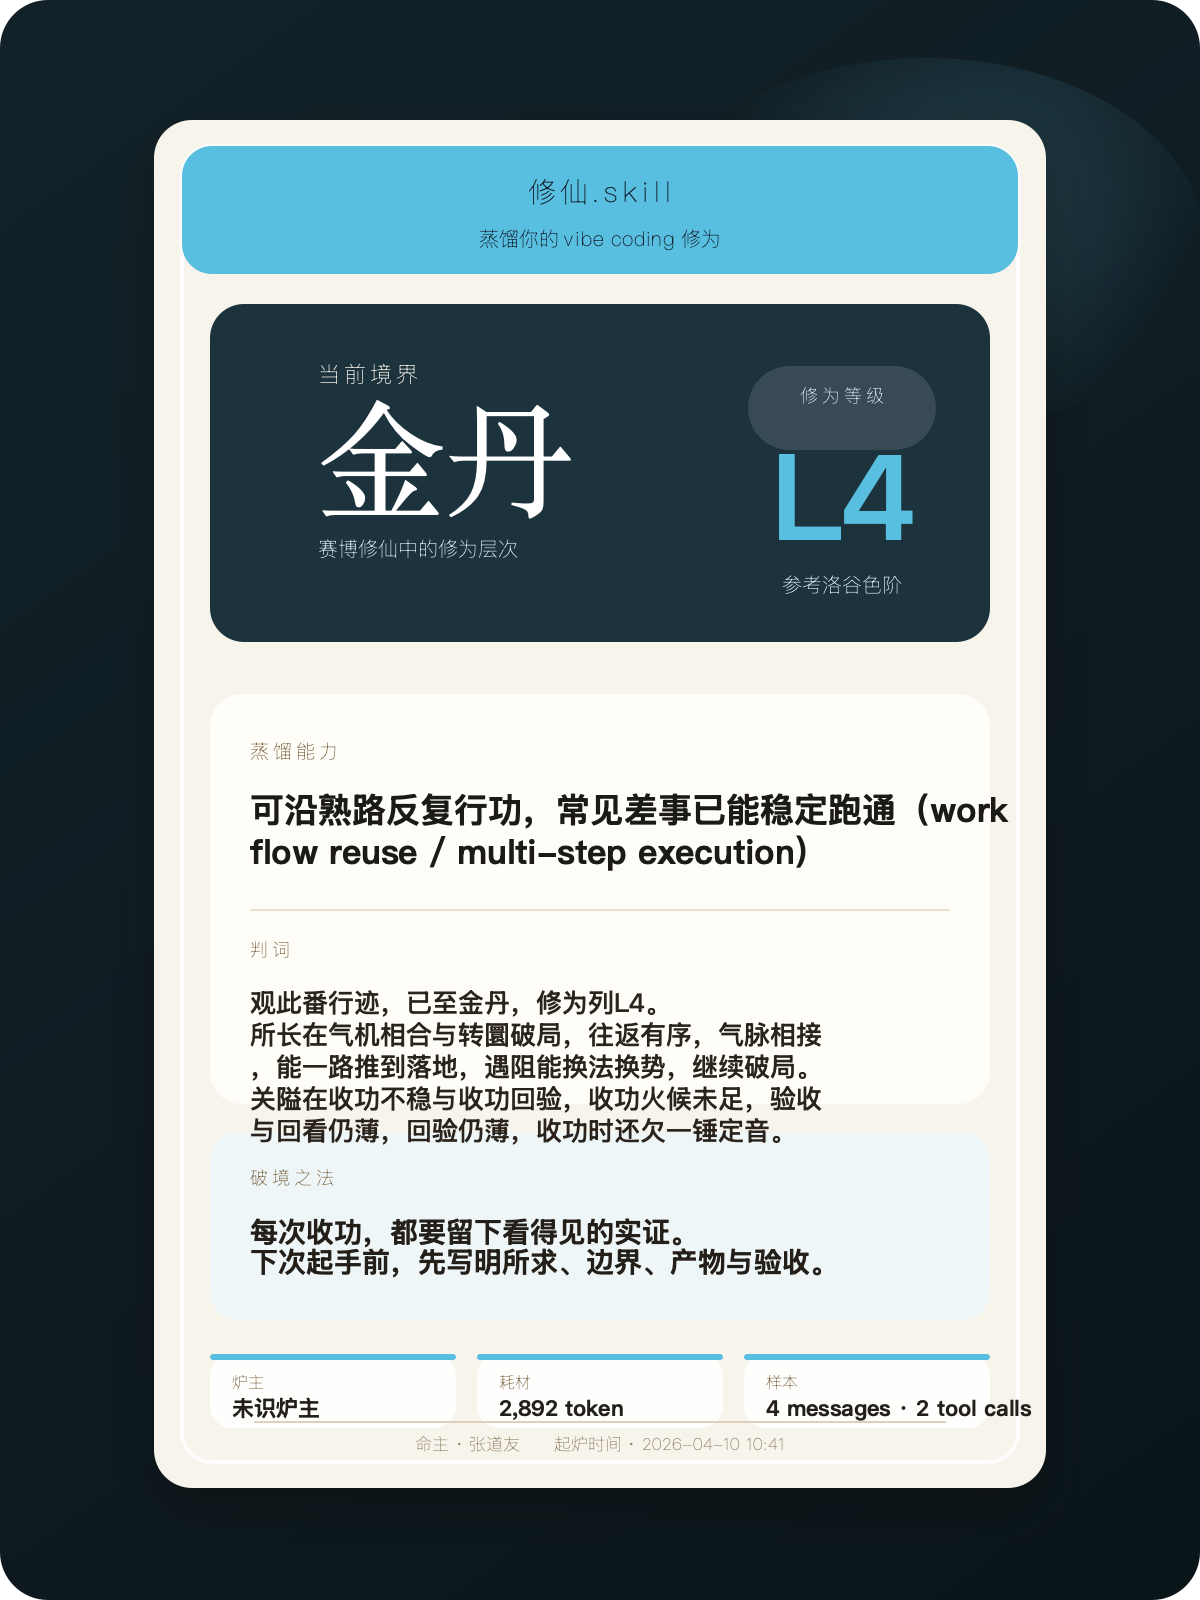
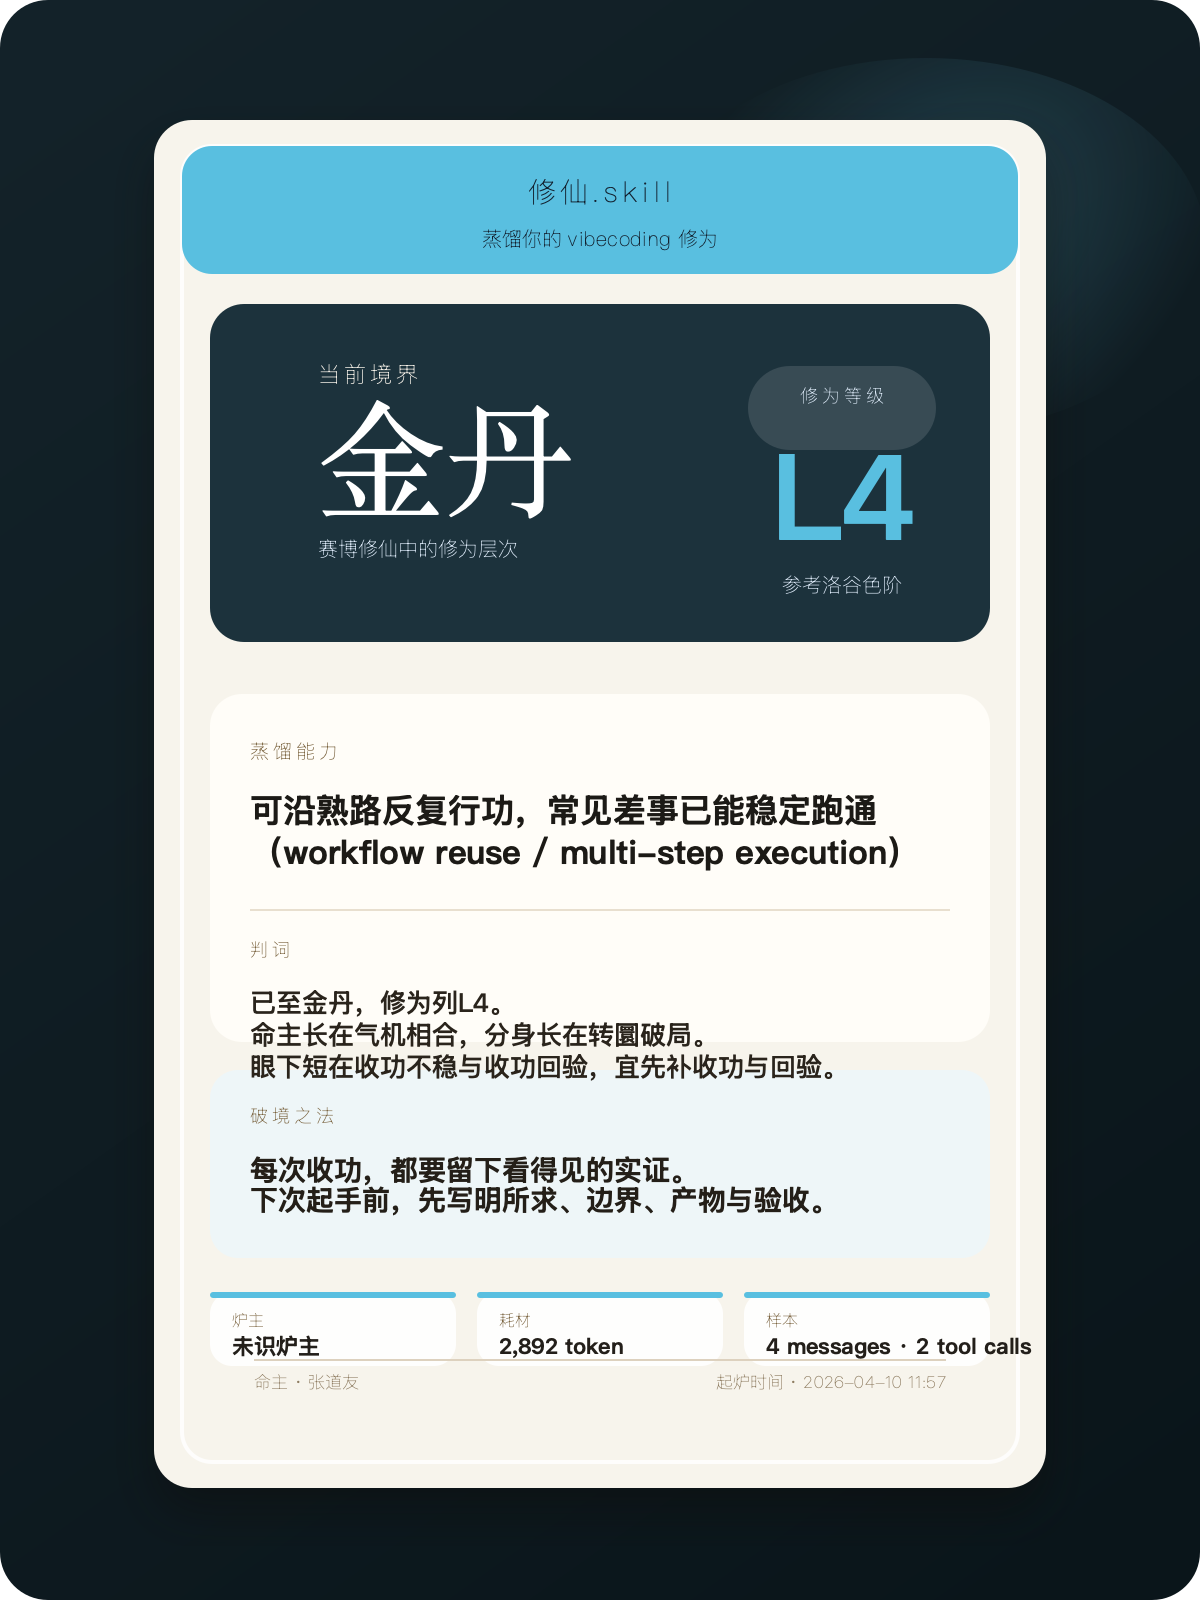
Polish share card layout and verdict copy

diff --git a/portrait_skill/cards.py b/portrait_skill/cards.py
@@ -2,6 +2,7 @@ from __future__ import annotations
 
 from html import escape
 from pathlib import Path
+import re
 import subprocess
 
 from .parsers import default_display_name
@@ -25,9 +26,10 @@ def render_xiuxian_card(payload: dict[str, object]) -> str:
     generated_at = _format_generated_at(payload.get("generated_at"))
     realm = str(insights.get("realm") or "凡人")
     rank = str(insights.get("rank") or "L1")
-    ability_lines = _wrap_block([str(insights.get("ability_text") or "仍在引气试手。")], 22.5, limit=4)
-    verdict_lines = _wrap_block(_string_list(insights.get("verdict_lines")), 22.5, limit=6)
-    breakthrough_lines = _wrap_block(_string_list(insights.get("breakthrough_lines")), 22.5, limit=4)
+    ability_lines = _wrap_block([str(insights.get("ability_text") or "仍在引气试手。")], 25.0, limit=4)
+    verdict_source = _string_list(insights.get("card_verdict_lines")) or _string_list(insights.get("verdict_lines"))
+    verdict_lines = _wrap_block(verdict_source, 24.5, limit=6)
+    breakthrough_lines = _wrap_block(_string_list(insights.get("breakthrough_lines")), 24.5, limit=4)
     theme = get_ai_level_theme(rank)
 
     model_name = _primary_model(payload)
@@ -75,7 +77,7 @@ def render_xiuxian_card(payload: dict[str, object]) -> str:
   </g>
 
   <text x="600" y="202" fill="#12202E" font-size="28" text-anchor="middle" font-family="PingFang SC, Hiragino Sans GB, Microsoft YaHei, sans-serif" letter-spacing="4">修仙.skill</text>
-  <text x="600" y="246" fill="#12202E" font-size="20" text-anchor="middle" font-family="PingFang SC, Hiragino Sans GB, Microsoft YaHei, sans-serif">蒸馏你的 vibe coding 修为</text>
+  <text x="600" y="246" fill="#12202E" font-size="20" text-anchor="middle" font-family="PingFang SC, Hiragino Sans GB, Microsoft YaHei, sans-serif">蒸馏你的 vibecoding 修为</text>
 
   <text x="318" y="382" fill="#F8F3EA" font-size="22" font-family="PingFang SC, Hiragino Sans GB, Microsoft YaHei, sans-serif" letter-spacing="4">当前境界</text>
   <text x="318" y="500" fill="#FFFFFF" font-size="128" font-family="STKaiti, KaiTi, serif">{_escape(realm)}</text>
@@ -87,7 +89,7 @@ def render_xiuxian_card(payload: dict[str, object]) -> str:
   <text x="842" y="592" fill="#DCE9F7" font-size="20" text-anchor="middle" font-family="PingFang SC, Hiragino Sans GB, Microsoft YaHei, sans-serif">参考洛谷色阶</text>
 
   <text x="250" y="758" fill="#7A633F" font-size="19" font-family="PingFang SC, Hiragino Sans GB, Microsoft YaHei, sans-serif" letter-spacing="4">蒸馏能力</text>
-  {_text_lines(ability_lines, x=250, y=822, font_size=34, line_height=42, fill="#1C1A16", anchor="start", family="PingFang SC, Hiragino Sans GB, Microsoft YaHei, sans-serif", weight="700")}
+  {_text_lines(ability_lines, x=250, y=822, font_size=33, line_height=42, fill="#1C1A16", anchor="start", family="PingFang SC, Hiragino Sans GB, Microsoft YaHei, sans-serif", weight="700")}
   <line x1="250" y1="{868 + max(0, len(ability_lines) - 1) * 42}" x2="950" y2="{868 + max(0, len(ability_lines) - 1) * 42}" stroke="#E8DFCF" stroke-width="2"/>
   <text x="250" y="{914 + max(0, len(ability_lines) - 1) * 42}" fill="#7A633F" font-size="18" font-family="PingFang SC, Hiragino Sans GB, Microsoft YaHei, sans-serif" letter-spacing="4">判词</text>
   {_text_lines(verdict_lines, x=250, y=verdict_y, font_size=26, line_height=32, fill="#2A241C", anchor="start", family="PingFang SC, Hiragino Sans GB, Microsoft YaHei, sans-serif", weight="500")}
@@ -100,7 +102,8 @@ def render_xiuxian_card(payload: dict[str, object]) -> str:
   {_chip(744, footer_chip_y, 246, "样本", sample_name, theme)}
 
   <line x1="254" y1="{footer_text_y - 28}" x2="946" y2="{footer_text_y - 28}" stroke="#DDD1BE" stroke-width="2"/>
-  <text x="600" y="{footer_text_y}" fill="#8E7C61" font-size="17" text-anchor="middle" font-family="PingFang SC, Hiragino Sans GB, Microsoft YaHei, sans-serif">{_escape(f'命主 · {display_name}　　起炉时间 · {generated_at}')}</text>
+  <text x="254" y="{footer_text_y}" fill="#8E7C61" font-size="17" text-anchor="start" font-family="PingFang SC, Hiragino Sans GB, Microsoft YaHei, sans-serif">{_escape(f'命主 · {display_name}')}</text>
+  <text x="946" y="{footer_text_y}" fill="#8E7C61" font-size="17" text-anchor="end" font-family="PingFang SC, Hiragino Sans GB, Microsoft YaHei, sans-serif">{_escape(f'起炉时间 · {generated_at}')}</text>
 </svg>
 """
 
@@ -141,25 +144,40 @@ def _wrap_text(text: str, max_units: float, limit: int | None = None) -> list[st
     cleaned = " ".join((text or "").split())
     if not cleaned:
         return []
+    tokens = _tokenize_for_wrap(cleaned)
     lines: list[str] = []
     current = ""
     current_units = 0.0
-    for char in cleaned:
-        char_units = _char_units(char)
-        if current and current_units + char_units > max_units:
-            lines.append(current)
-            current = char
-            current_units = char_units
+    for token in tokens:
+        token_units = _text_units(token)
+        if token_units > max_units:
+            for segment in _split_long_token(token, max_units):
+                segment_units = _text_units(segment)
+                if current and current_units + segment_units > max_units:
+                    lines.append(current)
+                    current = ""
+                    current_units = 0.0
+                    if limit and len(lines) >= limit:
+                        break
+                current += segment
+                current_units += segment_units
             if limit and len(lines) >= limit:
                 break
             continue
-        current += char
-        current_units += char_units
+        if current and current_units + token_units > max_units:
+            lines.append(current)
+            current = token
+            current_units = token_units
+            if limit and len(lines) >= limit:
+                break
+            continue
+        current += token
+        current_units += token_units
     if current and (not limit or len(lines) < limit):
         lines.append(current)
     if limit and len(lines) > limit:
         lines = lines[:limit]
-    if limit and lines and len(lines) == limit and sum(_char_units(ch) for ch in cleaned) > sum(_char_units(ch) for line in lines for ch in line):
+    if limit and lines and len(lines) == limit and _text_units(cleaned) > sum(_text_units(line) for line in lines):
         lines[-1] = _truncate_text(lines[-1], max(2, int(max_units) - 2))
     return lines
 
@@ -193,6 +211,93 @@ def _truncate_text(text: str, limit_units: int) -> str:
         result.append(char)
         total += units
     return "".join(result)
+
+
+def _tokenize_for_wrap(text: str) -> list[str]:
+    tokens: list[str] = []
+    i = 0
+    while i < len(text):
+        char = text[i]
+        if char in "（(":
+            closing = "）" if char == "（" else ")"
+            end = text.find(closing, i + 1)
+            if end != -1:
+                tokens.append(text[i : end + 1])
+                i = end + 1
+                continue
+        if char.isspace():
+            i += 1
+            continue
+        if ord(char) < 128:
+            j = i + 1
+            while j < len(text) and ord(text[j]) < 128 and text[j] not in "（(":
+                j += 1
+            tokens.append(text[i:j].rstrip())
+            i = j
+            continue
+        tokens.append(char)
+        i += 1
+    return [token for token in tokens if token]
+
+
+def _split_long_token(token: str, max_units: float) -> list[str]:
+    parts: list[str] = []
+    working = token
+    if token.startswith(("（", "(")) and token.endswith(("）", ")")):
+        opener, closer = token[0], token[-1]
+        inner = token[1:-1]
+        inner_parts = _split_ascii_segment(inner, max_units - 1.2)
+        for index, part in enumerate(inner_parts):
+            prefix = opener if index == 0 else ""
+            suffix = closer if index == len(inner_parts) - 1 else ""
+            parts.append(f"{prefix}{part}{suffix}")
+        return parts
+    if re.fullmatch(r"[\x00-\x7F]+", token):
+        return _split_ascii_segment(working, max_units)
+    return _split_cjk_segment(working, max_units)
+
+
+def _split_ascii_segment(text: str, max_units: float) -> list[str]:
+    words = re.findall(r"\S+\s*", text)
+    if not words:
+        return [text]
+    parts: list[str] = []
+    current = ""
+    current_units = 0.0
+    for word in words:
+        word_units = _text_units(word)
+        if current and current_units + word_units > max_units:
+            parts.append(current.rstrip())
+            current = word
+            current_units = word_units
+            continue
+        current += word
+        current_units += word_units
+    if current.strip():
+        parts.append(current.rstrip())
+    return parts or [text]
+
+
+def _split_cjk_segment(text: str, max_units: float) -> list[str]:
+    parts: list[str] = []
+    current = ""
+    current_units = 0.0
+    for char in text:
+        char_units = _char_units(char)
+        if current and current_units + char_units > max_units:
+            parts.append(current)
+            current = char
+            current_units = char_units
+            continue
+        current += char
+        current_units += char_units
+    if current:
+        parts.append(current)
+    return parts or [text]
+
+
+def _text_units(text: str) -> float:
+    return sum(_char_units(char) for char in text)
 
 
 def _char_units(char: str) -> float:

diff --git a/portrait_skill/insights.py b/portrait_skill/insights.py
@@ -156,8 +156,13 @@ def _build_insights(
 
     verdict_lines = [
         f"观此番行迹，已至{realm}，修为列{rank}。",
-        f"所长在{user_top_name}与{assistant_top_name}，{_metric_behavior(user_top['name'], 'strong', track='user')}，{_metric_behavior(assistant_top['name'], 'strong', track='assistant')}。",
-        f"关隘在{user_low_name}与{assistant_low_name}，{_metric_behavior(user_low['name'], 'weak', track='user')}，{_metric_behavior(assistant_low['name'], 'weak', track='assistant')}。",
+        f"所长在{user_top_name}与{assistant_top_name}，命主这边{_metric_behavior(user_top['name'], 'strong', track='user')}；分身这边{_metric_behavior(assistant_top['name'], 'strong', track='assistant')}。",
+        f"关隘在{user_low_name}与{assistant_low_name}，命主这边{_metric_behavior(user_low['name'], 'weak', track='user')}；分身这边{_metric_behavior(assistant_low['name'], 'weak', track='assistant')}。",
+    ]
+    card_verdict_lines = [
+        f"已至{realm}，修为列{rank}。",
+        f"命主长在{user_top_name}，分身长在{assistant_top_name}。",
+        f"眼下短在{user_low_name}与{assistant_low_name}，宜先补收功与回验。",
     ]
     breakthrough_lines = _merge_growth_lines(user_certificate, assistant_certificate)
 
@@ -167,6 +172,7 @@ def _build_insights(
         "ability_text": ability_text,
         "usage_line": f"{_fmt_int(total_tokens)} token · {total_messages} messages · {tool_calls} tool calls" if total_tokens else f"{total_messages} messages · {tool_calls} tool calls",
         "verdict_lines": verdict_lines,
+        "card_verdict_lines": card_verdict_lines,
         "breakthrough_lines": breakthrough_lines,
         "user_summary_lines": [
             f"命主当前最稳的是“{user_top_name}”，{user_top['rationale']}",

diff --git a/portrait_skill/analyzer.py b/portrait_skill/analyzer.py
@@ -141,7 +141,7 @@ def analyze_transcript(transcript: Transcript) -> Analysis:
         f"工具调用 {transcript.tool_calls} 次。"
     )
     if transcript.token_usage.total_tokens:
-        overview += f" 累计消耗 {transcript.token_usage.total_tokens} token。"
+        overview += f"累计消耗 {transcript.token_usage.total_tokens} token。"
     return Analysis(
         transcript=transcript,
         user_metrics=user_metrics,
@@ -224,7 +224,7 @@ def aggregate_analyses(analyses: list[Analysis], min_messages: int = 8) -> dict[
         f"工具调用 {total_tool_calls} 次。"
     )
     if total_tokens:
-        overview += f" 累计消耗 {total_tokens} token。"
+        overview += f"累计消耗 {total_tokens} token。"
     if dropped:
         overview += f" 另有 {dropped} 场低样本会话因消息数低于 {min_messages} 被排除。"
 

diff --git a/examples/demo_report.md b/examples/demo_report.md
@@ -1,11 +1,11 @@
 # 修仙.skill 修炼报告
 
 ## 炼化概览
-共解析 4 条有效消息，用户 2 条，AI 2 条，工具调用 2 次。 累计消耗 2892 token。
+共解析 4 条有效消息，用户 2 条，AI 2 条，工具调用 2 次。累计消耗 2892 token。
 - 命主：`张道友`
 - 来源：`codex`
 - 卷宗：`~/my-project/xiuxianLLM/side-projects/portrait.skill/examples/demo_codex_session.jsonl`
-- 起炉时间：`2026-04-10 10:41`
+- 起炉时间：`2026-04-10 11:57`
 - 本轮耗材：`2,892 token`
 - token 明细：`输入 2,480 / 缓存 960 / 输出 412 / 推理 128`
 
@@ -17,8 +17,8 @@
 
 ### 判词
 - 观此番行迹，已至金丹，修为列L4。
-- 所长在气机相合与转圜破局，往返有序，气脉相接，能一路推到落地，遇阻能换法换势，继续破局。
-- 关隘在收功不稳与收功回验，收功火候未足，验收与回看仍薄，回验仍薄，收功时还欠一锤定音。
+- 所长在气机相合与转圜破局，命主这边往返有序，气脉相接，能一路推到落地；分身这边遇阻能换法换势，继续破局。
+- 关隘在收功不稳与收功回验，命主这边收功火候未足，验收与回看仍薄；分身这边回验仍薄，收功时还欠一锤定音。
 
 ### 破境之法
 - 每次收功，都要留下看得见的实证。
